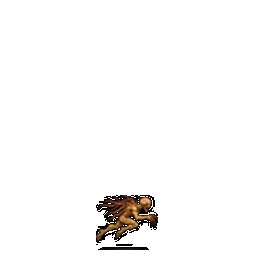
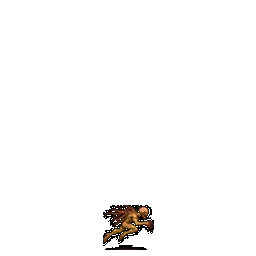
Rebuild Swarmling Run row at one scale

Changed region(s): [[0.375, 0.75, 0.625, 1.0]]

diff --git a/src/procedural-swarmling-preview.js b/src/procedural-swarmling-preview.js
@@ -24,7 +24,7 @@ let manifest,animation,sourceAtlas=null,playing=true,start=performance.now(),off
 const boundsCache=new WeakMap();
 const sourceCellCache=new Map();
 const imageCache=new Map();
-const runAnchors=[[129,249],[129,249],[128,249],[132,249],[126,249],[131,250]];
+const runAnchors=[[128,249],[128,249],[128,249],[128,249],[128,249],[128,249]];
 const clamp=v=>Math.max(0,Math.min(1,v));
 const smooth=t=>{t=clamp(t);return t*t*(3-2*t)};
 const lerp=(a,b,t)=>a+(b-a)*t;
